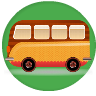
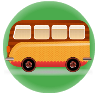
Changing user marker to shared taxi when sharing location

Changed region(s): [[0.0, 0.0, 1.0, 0.9688]]

diff --git a/javascripts/main.js b/javascripts/main.js
@@ -4,6 +4,7 @@ var sessionId = Math.floor((Math.random() * 10000000) + 1);
 var serviceLocation = "ws://sharedroute.cloudapp.net/app";
 var taxiMap = {};
 var taxiIcon;
+var sharedTaxiIcon;
 var map;
 var userLocation;
 var userMaker;
@@ -37,6 +38,10 @@ function initialize() {
 
     taxiIcon = new google.maps.MarkerImage(
         "https://raw.githubusercontent.com/idoco/shared-route/gh-pages/images/taxi_96x96.png",
+        null, null, null, new google.maps.Size(40,40)); // Create a variable for our marker image.
+
+    sharedTaxiIcon = new google.maps.MarkerImage(
+        "https://raw.githubusercontent.com/idoco/shared-route/gh-pages/images/shared_taxi_96x96.png",
         null, null, null, new google.maps.Size(40,40)); // Create a variable for our marker image.
 
     userMaker = new google.maps.Marker({ // Set the marker
@@ -135,6 +140,7 @@ function toggleSharingMode(){
     if (!isSharingLocation){
         shareRideButton.className = "waves-effect waves-light btn red";
         shareRideButton.innerHTML = "<i class=\"mdi-maps-directions-bus right\"></i> Stop Sharing";
+        userMaker.setIcon(sharedTaxiIcon);
         if (userLocation) {
             sendMessage(userLocation.lat(), userLocation.lng());
         }
@@ -143,6 +149,7 @@ function toggleSharingMode(){
     } else{
         shareRideButton.className = "waves-effect waves-light btn green";
         shareRideButton.innerHTML = "<i class=\"mdi-maps-directions-bus right\"></i> Share My Taxi";
+        userMaker.setIcon(null);
         isSharingLocation = false;
     }
 }
